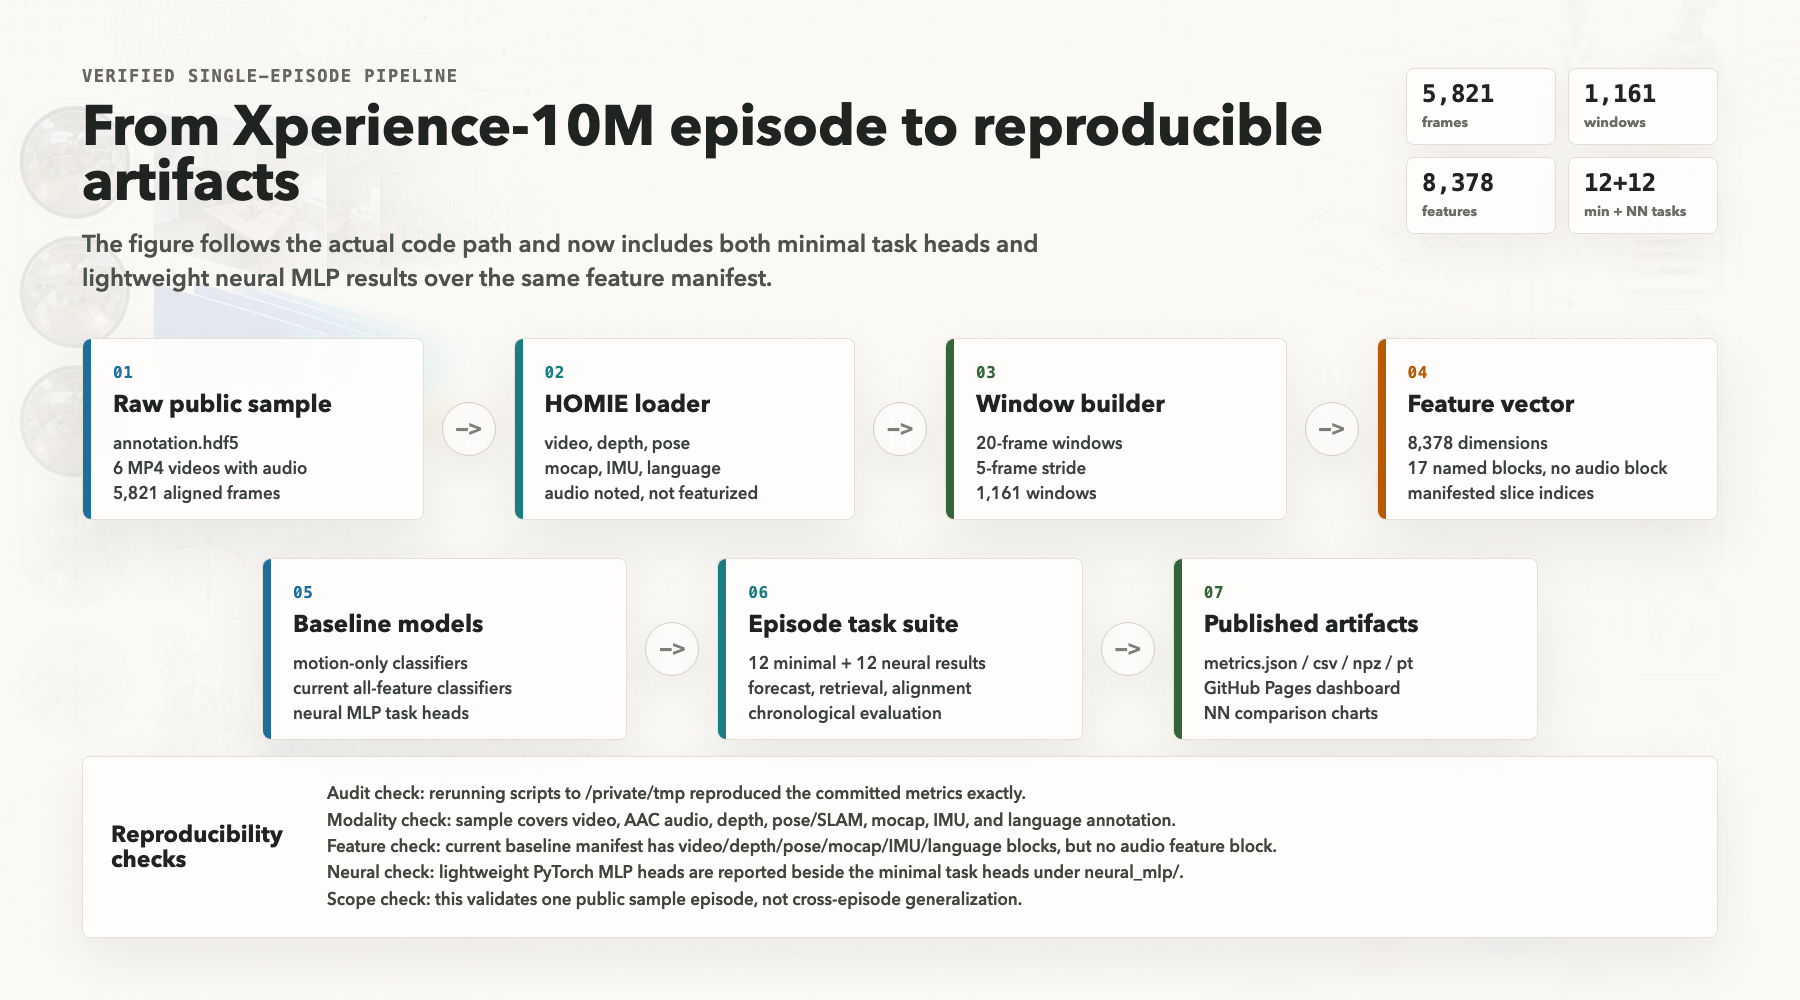
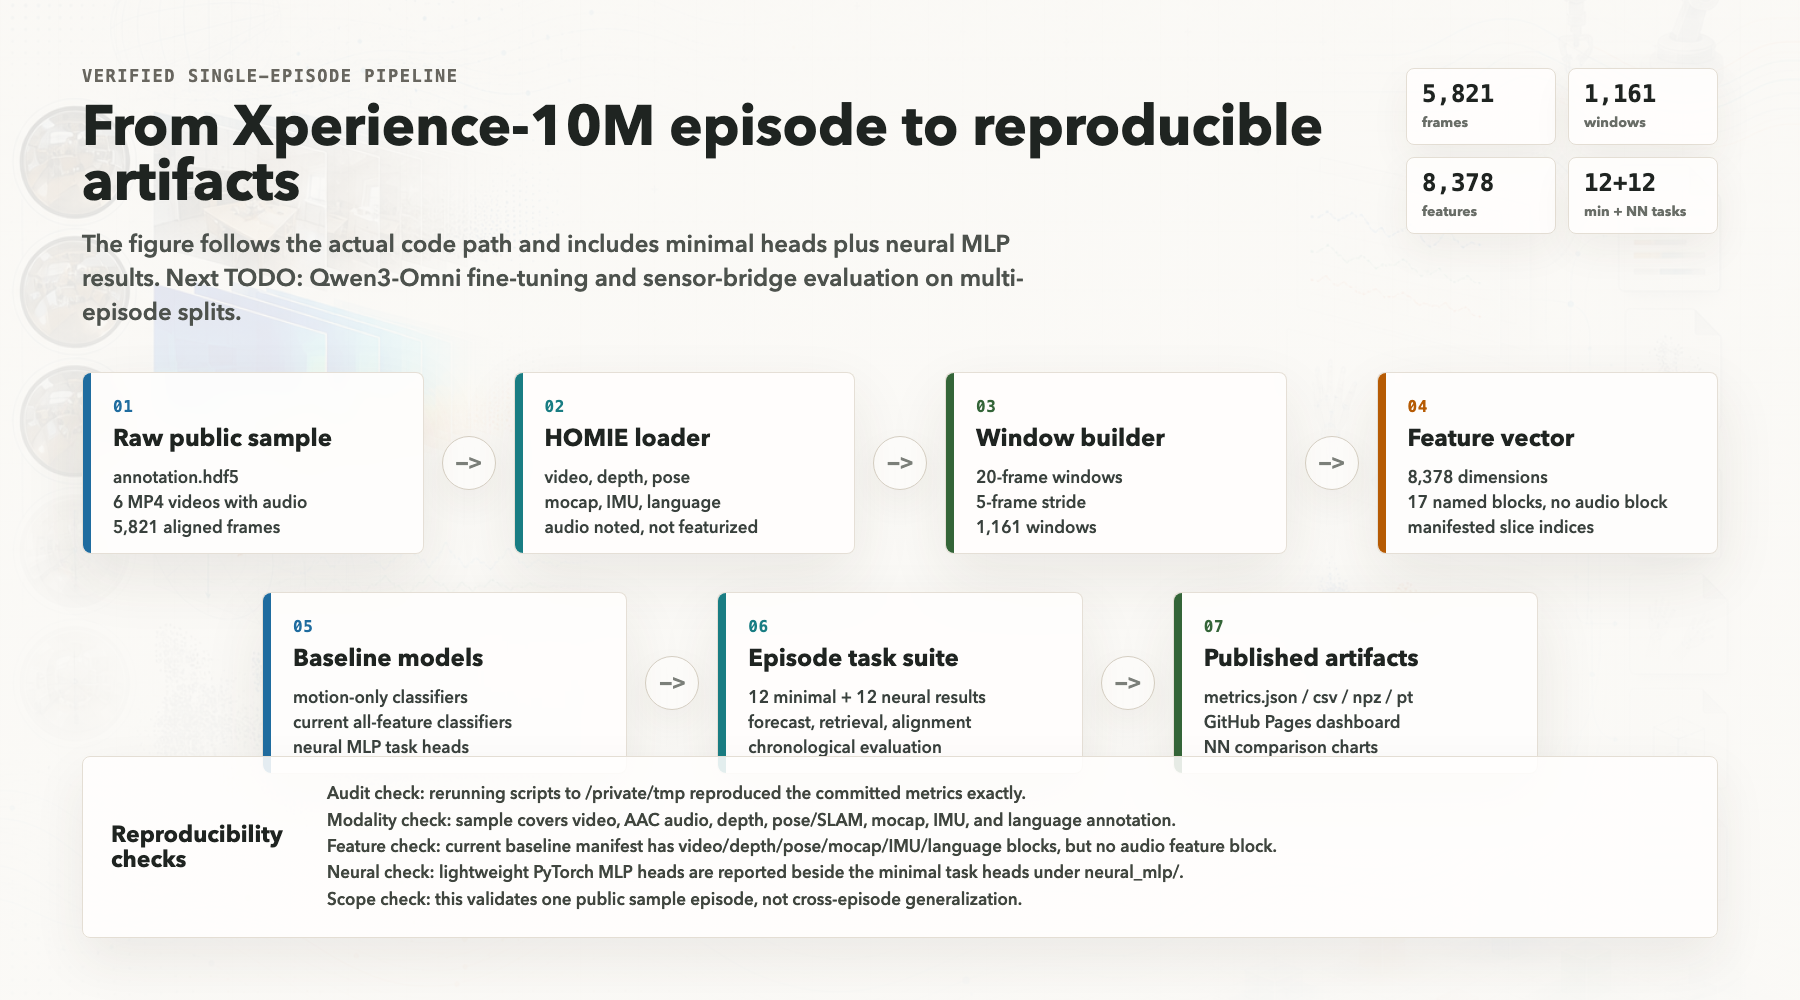
Add Omni fine-tuning TODO to figures

diff --git a/docs/index.html b/docs/index.html
@@ -515,6 +515,7 @@
           A compact research lab for the public Xperience-10M sample from Ropedia:
           video, audio, depth, pose, motion capture, inertial sensing, and language annotation,
           with explicit minimal and neural MLP baselines over the same current feature vector.
+          Next TODO: Qwen3-Omni fine-tuning plus sensor-bridge evaluation on multi-episode splits.
         </p>
         <div class="hero-actions">
           <a class="button primary" href="#suite">Inspect 12 tasks</a>

diff --git a/scripts/render_overview_figures.py b/scripts/render_overview_figures.py
@@ -359,7 +359,7 @@ def build_pipeline_html(summary: dict, base_path: Path) -> str:
         <div>
           <div class="kicker">verified single-episode pipeline</div>
           <h1>From Xperience-10M episode to reproducible artifacts</h1>
-          <p class="subtitle">The figure follows the actual code path and now includes both minimal task heads and lightweight neural MLP results over the same feature manifest.</p>
+          <p class="subtitle">The figure follows the actual code path and includes minimal heads plus neural MLP results. Next TODO: Qwen3-Omni fine-tuning and sensor-bridge evaluation on multi-episode splits.</p>
         </div>
         <div class="metrics">
           <div class="metric"><strong>{suite['num_frames']:,}</strong><span>frames</span></div>
@@ -698,7 +698,7 @@ def build_architecture_html(summary: dict, base_path: Path) -> str:
         <div>
           <div class="kicker">minimal + neural verified model architectures</div>
           <h1>12 Xperience-10M episode tasks, minimal and NN heads</h1>
-          <p class="subtitle">Each task uses the same aligned episode-window contract. The figure now shows minimal heads beside the optional neural MLP metrics for labels, forecasting, grounding, reconstruction, and temporal diagnostics.</p>
+          <p class="subtitle">Each task uses the same aligned episode-window contract. The figure shows minimal heads beside neural MLP metrics; next TODO is Qwen3-Omni fine-tuning with sensor-bridge evaluation.</p>
         </div>
         <div class="summary-pill"><strong>{len(suite['tasks'])}+{neural_count}</strong><span>min + NN tasks</span></div>
       </header>

diff --git a/scripts/render_task_suite_infographic.py b/scripts/render_task_suite_infographic.py
@@ -920,7 +920,7 @@ def build_html(summary: dict, base_image: Path | None, sample_dir: Path | None) 
       <div>
         <div class="kicker">verified single-episode task suite</div>
         <h1>Xperience-10M 12-task episode suite</h1>
-        <p class="subtitle">A clean map from synchronized multimodal windows to 12 auditable task heads, now comparing minimal heads with lightweight neural MLP results loaded from the committed summary report.</p>
+        <p class="subtitle">A clean map from synchronized multimodal windows to 12 auditable task heads, comparing minimal heads with neural MLP results. Next TODO: Qwen3-Omni fine-tuning plus sensor-bridge evaluation.</p>
       </div>
       <div class="stats">{stats_html}</div>
     </header>

diff --git a/README.md b/README.md
@@ -15,6 +15,7 @@ into:
 - motion-only and current all-feature baseline models,
 - 12 end-to-end episode-level tasks,
 - lightweight neural MLP heads for the same 12 task contracts,
+- a next TODO track for Qwen3-Omni fine-tuning and sensor-bridge evaluation,
 - metrics, predictions, model weights, manifests, charts, and a static website,
 - a clear explanation of what a single episode can and cannot prove.
 
